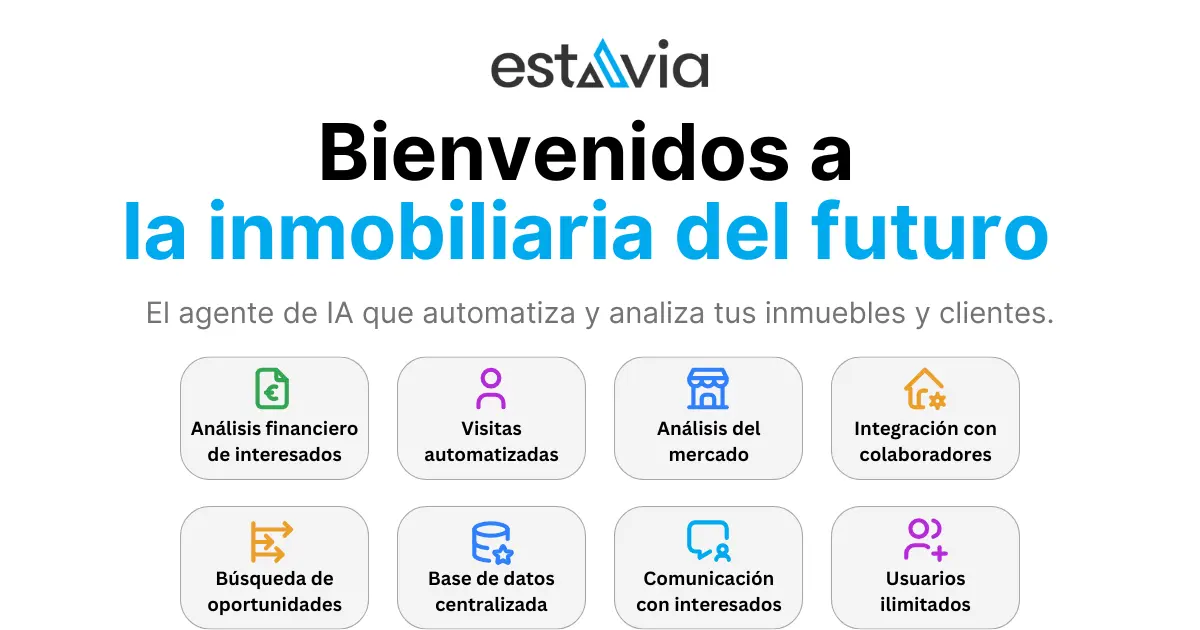
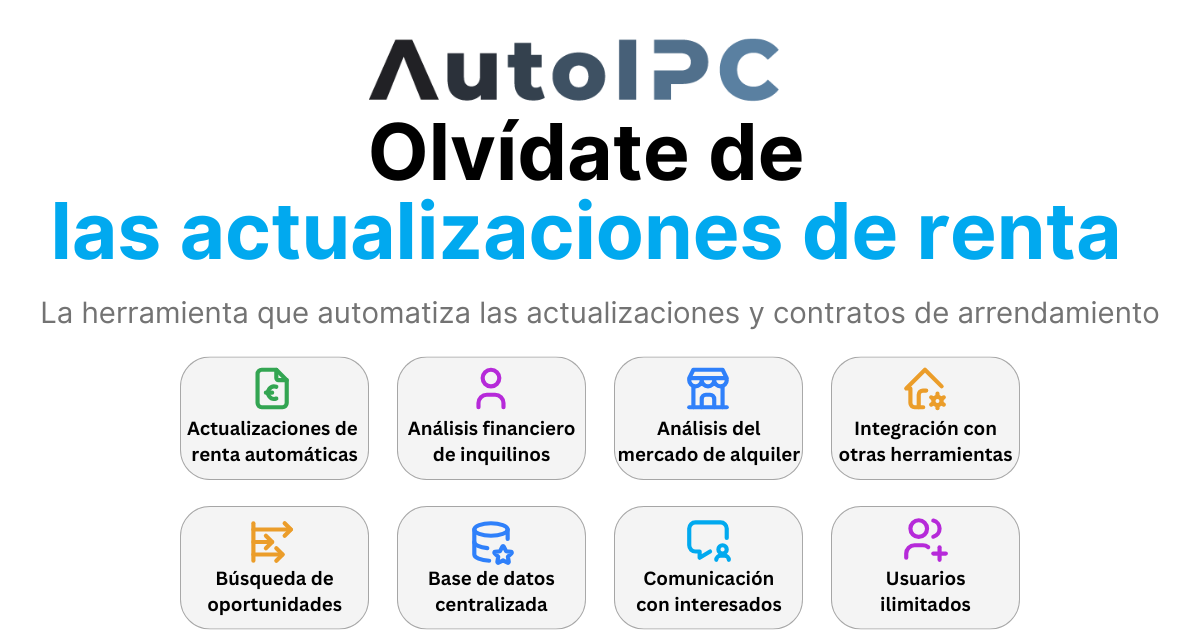
Update og image and meta

diff --git a/src/config.ts b/src/config.ts
@@ -48,9 +48,9 @@ type NavigationConfig = {
 
 export const SITE = (): SiteConfig => {
   return {
-    title: 'AutoIPC - Automatiza las subidas de IPC y los contratos de arrendamiento',
+    title: 'AutoIPC - Automatiza las actualizaciones de renta y genera contratos de arrendamiento en segundos',
     description:
-      'AutoIPC es la plataforma para automatizar las subidas de IPC y los contratos de arrendamiento de manera sencilla.',
+      'AutoIPC es la plataforma digital que automatiza las actualizaciones de renta basadas en IPC o IRAV y los contratos de arrendamiento de manera sencilla.',
     author: 'Daniel García',
     siteUrl: 'https://autoipc.es/',
     ogImage: '/src/assets/images/og-image.webp', // Needs to be an absolute path /src/...
